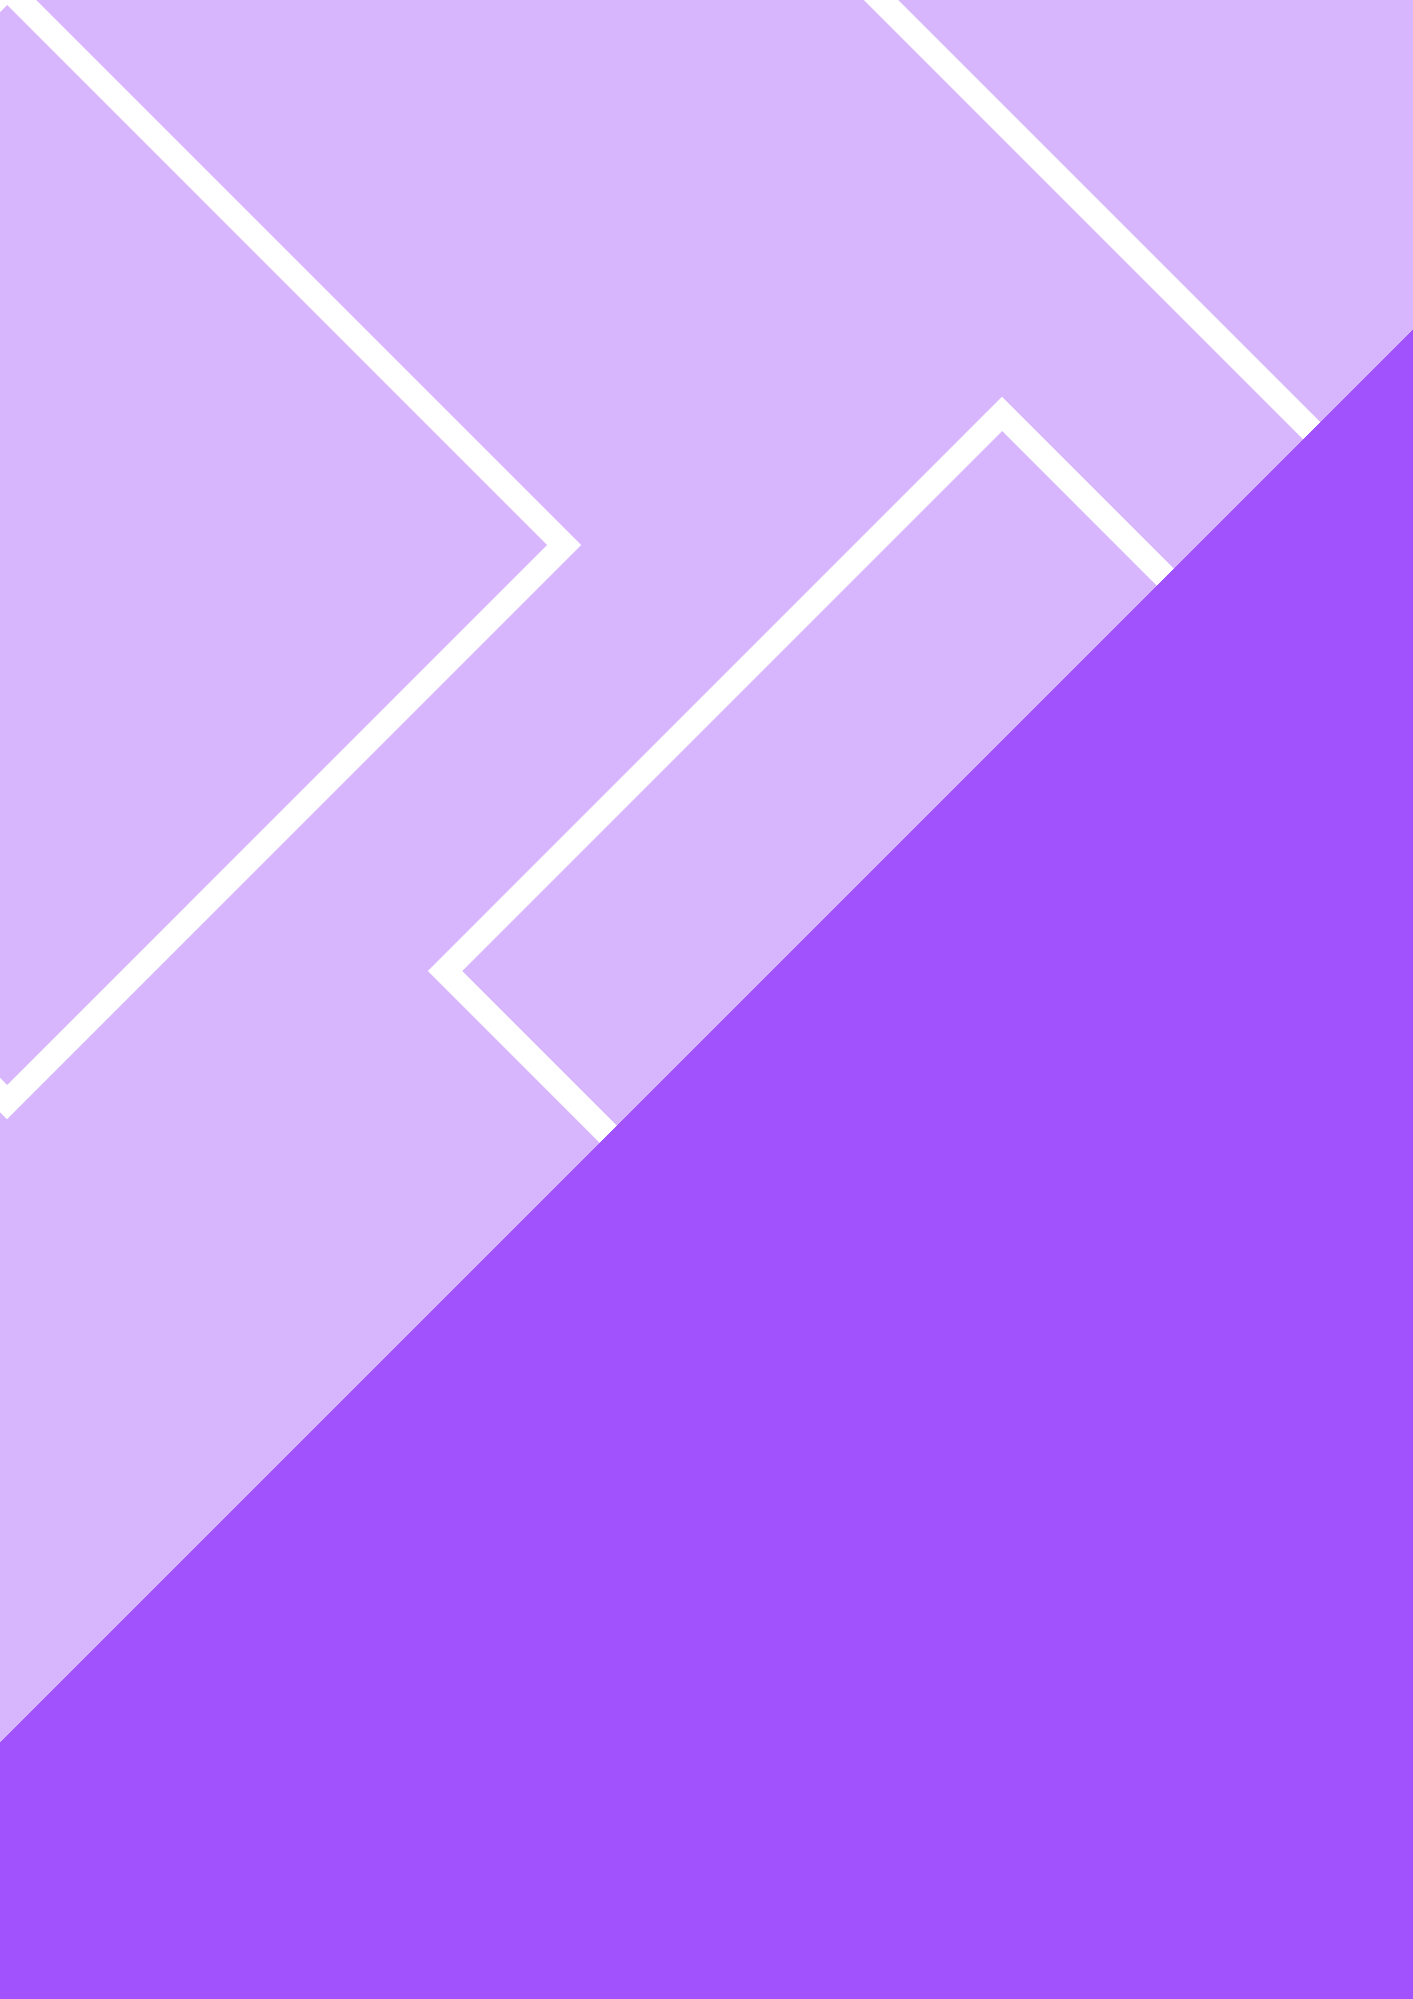
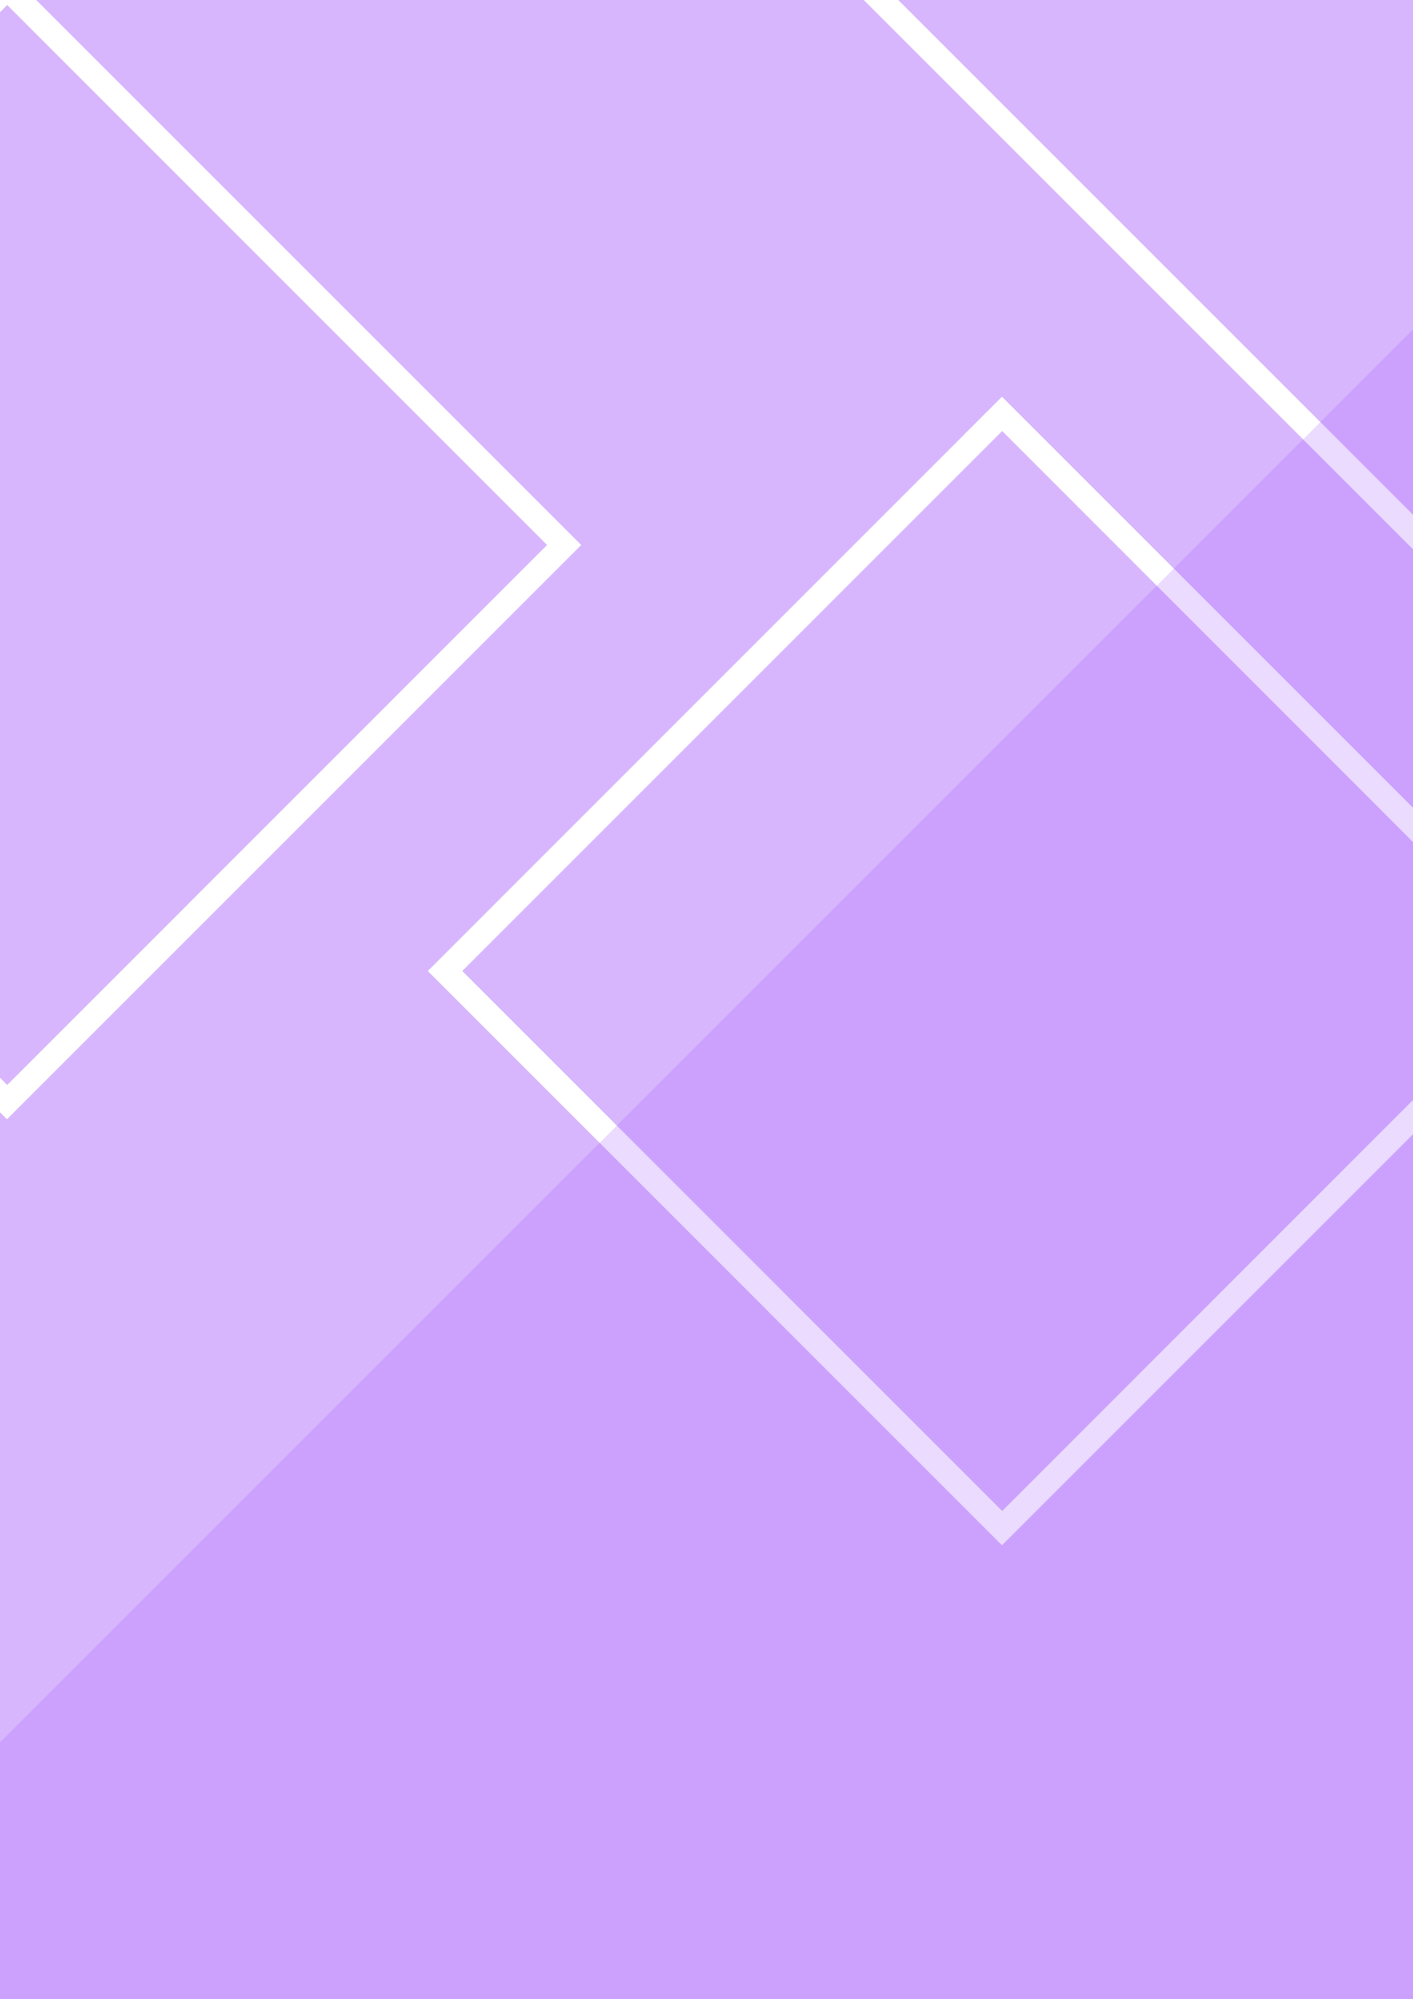
Background Image

diff --git a/index.html b/index.html
@@ -15,39 +15,39 @@
     <!--    stylesheets-->
 
     <!--    scrollbar-->
-<!--    <style>-->
-<!--        /* width */-->
-<!--        ::-webkit-scrollbar {-->
-<!--            width: 15px;-->
-<!--        }-->
+    <style>
+        /* width */
+        ::-webkit-scrollbar {
+            width: 15px;
+        }
 
-<!--        /* Track */-->
-<!--        ::-webkit-scrollbar-track {-->
-<!--            box-shadow: inset 0 0 5px grey;-->
-<!--            border-radius: 10px;-->
-<!--        }-->
+        /* Track */
+        ::-webkit-scrollbar-track {
+            box-shadow: inset 0 0 5px grey;
+            border-radius: 10px;
+        }
 
-<!--        /* Handle */-->
-<!--        ::-webkit-scrollbar-thumb {-->
-<!--            background: #a152fd;-->
-<!--            border-radius: 10px;-->
-<!--        }-->
+        /* Handle */
+        ::-webkit-scrollbar-thumb {
+            background: #a152fd;
+            border-radius: 10px;
+        }
 
-<!--        /* Handle on hover */-->
-<!--        ::-webkit-scrollbar-thumb:hover {-->
-<!--            background: #a152fd;-->
-<!--        }-->
+        /* Handle on hover */
+        ::-webkit-scrollbar-thumb:hover {
+            background: #a152fd;
+        }
 
-<!--        .hidescroll::-webkit-scrollbar {-->
-<!--            display: none;-->
-<!--        }-->
+        .hidescroll::-webkit-scrollbar {
+            display: none;
+        }
 
-<!--        .hidescroll {-->
-<!--            -ms-overflow-style: none; /* IE and Edge */-->
-<!--            scrollbar-width: none; /* Firefox */-->
-<!--        }-->
+        .hidescroll {
+            -ms-overflow-style: none; /* IE and Edge */
+            scrollbar-width: none; /* Firefox */
+        }
 
-<!--    </style>-->
+    </style>
     <!--    scrollbar-->
 </head>
 <body>
@@ -55,15 +55,16 @@
     <!--    banner-->
     <div class="row bannerbackground" data-aos="fade-down">
         <img class="img-fluid" src="images/banner.png" alt="">
-        <div class="float-left" id="bannertext"></div>
     </div>
+    <div class="text-left" id="bannertext"></div>
+
     <!--    banner-->
     <!----------------------->
     <!--    about-->
     <div class="headingtext" id="about" data-aos="fade-down"><span>A</span>bout</div>
     <div class="row">
         <div class="row">
-            <div class="col-md-7 text-center" data-aos="fade-right">
+            <div class="col-md-7 text-center" data-aos="fade-down">
                 <span style="font-family: fontitalic;font-size: x-large;">Hello!</span><br>
                 I am Rajinderpal Singh a B.Tech student from Guru Nanak Dev University,Amritsar majoring in Computer
                 Engineering
@@ -71,7 +72,7 @@
                 company goals.Dedicated to working hard to make positive
                 contributions.
             </div>
-            <div class="col-md-5" data-aos="fade-left">
+            <div class="col-md-5" data-aos="fade-down">
                 <div id="personalinfo">
                     <table class="table">
                         <tr>
@@ -189,24 +190,26 @@
                 </div>
             </div>
         </div>
-        <div class="headingtext" data-aos="fade-down"><span>O</span>ther <span>S</span>kills
-        </div>
-        <div id="otherskills">
-            <ul>
-                <li data-aos="fade-down">Bootstrap</li>
-                <li data-aos="fade-down">API call</li>
-                <li data-aos="fade-down">LaTex</li>
-                <li data-aos="fade-down">Microsoft Office</li>
-                <li data-aos="fade-down">Video Editing</li>
-            </ul>
-        </div>
     </div>
+    <div class="headingtext" data-aos="fade-down"><span>O</span>ther <span>S</span>kills
+    </div>
+    <div id="otherskills">
+        <ul>
+            <li data-aos="fade-down">Bootstrap</li>
+            <li data-aos="fade-down">API call</li>
+            <li data-aos="fade-down">LaTex</li>
+            <li data-aos="fade-down">Microsoft Office</li>
+            <li data-aos="fade-down">Video Editing</li>
+        </ul>
+    </div>
+
     <!--    skills-->
 
     <!---------------------->
 
     <!--    experiences-->
-    <div class="headingtext" id="experiencesandcertifications"  data-aos="fade-down"><span>E</span>xperiences & <span>C</span>ertifications
+    <div class="headingtext" id="experiencesandcertifications" data-aos="fade-down"><span>E</span>xperiences &
+        <span>C</span>ertifications
     </div>
     <div class="row justify-content-center">
         <div class="col-lg-4" data-aos="fade-down">
@@ -262,7 +265,7 @@
                 </div>
             </div>
         </div>
-        <div class="col-lg-4"  data-aos="fade-down">
+        <div class="col-lg-4" data-aos="fade-down">
             <div class="card">
                 <div class="card-body">
                     <h5 class="card-title text-center">Campus Ambassador</h5>
@@ -270,12 +273,12 @@
 
                     <p class="card-text">As a Campus Ambassador at Abhyuday IIT Bombay</p>
                 </div>
-<!--                <div class="card-footer text-center">-->
-<!--&lt;!&ndash;                    <a href="#" class="btn btn-light"></a>&ndash;&gt;-->
-<!--                </div>-->
+                <!--                <div class="card-footer text-center">-->
+                <!--&lt;!&ndash;                    <a href="#" class="btn btn-light"></a>&ndash;&gt;-->
+                <!--                </div>-->
             </div>
         </div>
-        <div class="col-lg-4"  data-aos="fade-down">
+        <div class="col-lg-4" data-aos="fade-down">
             <div class="card">
                 <!--                <div class="card-header">-->
                 <!--                    <ul class="nav nav-tabs card-header-tabs">-->
@@ -303,20 +306,24 @@
     <!---------------------->
 
     <!--Projects-->
-    <div class="headingtext" id="projects"  data-aos="fade-down"><span>P</span>rojects</div>
+    <div class="headingtext" id="projects" data-aos="fade-down"><span>P</span>rojects</div>
     <div class="row justify-content-center form-group">
-        <div  data-aos="fade-left" id="ppbtn" onclick="showprojects('#pythonprojects','ppbtn');" class="btn btn-outline-light"><img
+        <div data-aos="fade-left" id="ppbtn" onclick="showprojects('#pythonprojects','ppbtn');"
+             class="btn btn-outline-light"><img
                 class="btntechlogo"
                 src="images/techlogos/python.png"
                 alt="Python">+<img class="btntechlogo" src="images/techlogos/sql.png" alt="SQL"></div>
-        <div data-aos="fade-right" id="cpppbtn" onclick="showprojects('#cppprojects','cpppbtn');" class="btn btn-outline-light"><img
+        <div data-aos="fade-right" id="cpppbtn" onclick="showprojects('#cppprojects','cpppbtn');"
+             class="btn btn-outline-light"><img
                 src="images/techlogos/c++.png"
                 alt="C++" class="btntechlogo"></div>
-        <div data-aos="fade-left" id="hcjpbtn" onclick="showprojects('#htmlcssjsprojects','hcjpbtn');" class="btn btn-outline-light"><img
+        <div data-aos="fade-left" id="hcjpbtn" onclick="showprojects('#htmlcssjsprojects','hcjpbtn');"
+             class="btn btn-outline-light"><img
                 src="images/techlogos/html.png" alt="HTML" class="btntechlogo">+<img src="images/techlogos/css.png"
                                                                                      alt="CSS" class="btntechlogo">+<img
                 src="images/techlogos/JavaScript.png" alt="Js" class="btntechlogo"></div>
-        <div data-aos="fade-right" id="dpbtn" onclick="showprojects('#djangoprojects','dpbtn');" class="btn btn-outline-light"><img
+        <div data-aos="fade-right" id="dpbtn" onclick="showprojects('#djangoprojects','dpbtn');"
+             class="btn btn-outline-light"><img
                 src="images/techlogos/django.png" alt="Django" class="btntechlogo">+<img
                 src="images/techlogos/sql.png" alt="SQL" class="btntechlogo"></div>
     </div>
@@ -639,8 +646,8 @@
 <script src="https://unpkg.com/aos@2.3.1/dist/aos.js"></script>
 <script>
     AOS.init();
-    var text="I am a Developer"
-    onload=typewriter(text,"bannertext");
+    var text = "I am a Developer"
+    onload = typewriter(text, "bannertext");
 </script>
 <!--js files-->
 </body>

diff --git a/css/styles.css b/css/styles.css
@@ -18,9 +18,15 @@
     src: url("../fonts/Product Sans Regular.ttf") format('truetype');
 }
 body{
+    background-image: url("../images/background.png");
+    background-repeat: no-repeat;
+    background-size: cover;
     font-family: fontregularb;
     letter-spacing: 2px;
     overflow-x: hidden !important;
+}
+.container{
+    /*padding: 10px !important;*/
 }
 div{
     font-family: fontregular;
